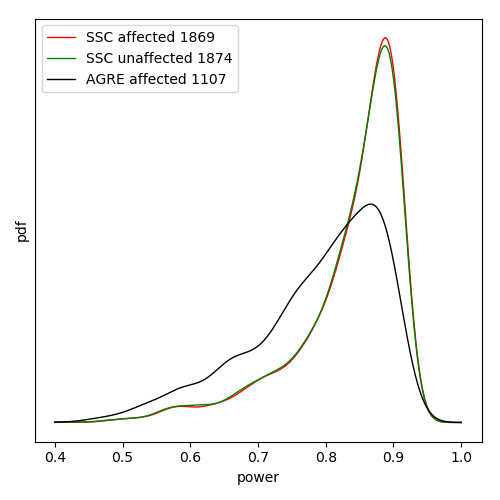
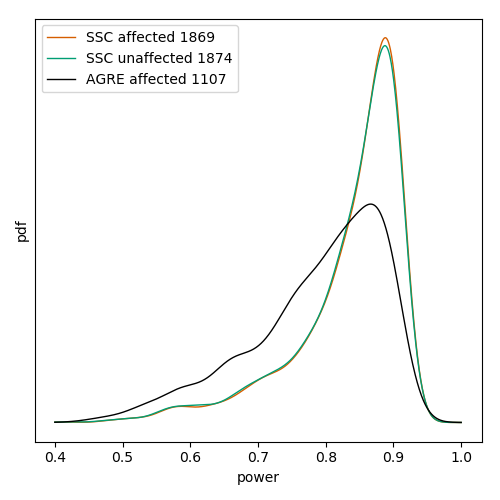
updated the color schema

diff --git a/src/figParentalAges.py b/src/figParentalAges.py
@@ -24,15 +24,21 @@ def pltD(aAll,c,f,t,lw=1,onY=False,):
     density = stats.kde.gaussian_kde(a)
     x = linspace(f,t,1000)
     if onY:
-        plot(density(x), x,c,lw=lw)
+        plot(density(x), x,c=c,lw=lw)
     else:
-        plot(x, density(x),c,lw=lw)
+        plot(x, density(x),c=c,lw=lw)
     return len(a)
 
 
 clf()
 spi = 0
-chldSetDef = [['SSC','affected','r'],['SSC','unaffected','g'], ['AGRE','affected', 'k']]
+
+chldSetDef = [
+    ['SSC' , 'affected'  , [213/255., 94 /255., 0  /255.]],
+    ['SSC' , 'unaffected', [0  /255., 158/255., 115/255.]], 
+    ['AGRE', 'affected'  , [0  /255., 0  /255., 0  /255.]]
+]
+
 for par,GS in zip(['father','mother'],[GRPDA,GRPMA]):
     spi += 1
     subplot(2,2,spi)
@@ -56,9 +62,9 @@ for par,GS in zip(['father','mother'],[GRPDA,GRPMA]):
         ages = agesAll[logical_not(isnan(agesAll))] 
         mn = mean(ages)
         se = 2*stats.sem(ages)
-        plot([ci],[mn],c+'o')
-        plot([ci,ci],[mn-se,mn+se],c+'-')
-        plot([0,2],[mn,mn],c+':')
+        plot([ci],[mn],'o',c=c)
+        plot([ci,ci],[mn-se,mn+se],'-',c=c)
+        plot([0,2],[mn,mn],':',c=c)
         lgnds.append('%s %s' % (coll, affSt))
     xticks([0,1,2],lgnds)
     ylabel('age')

diff --git a/src/figCNVPower.py b/src/figCNVPower.py
@@ -57,8 +57,8 @@ hcs = ls[0].split("\t")
     
 def plotFCI(n,x,c):
     bd = beta(n,10000-n)
-    lid = plot([x,x],[bd.ppf(0.05),bd.isf(0.05)],c,lw=2,alpha=0.5)
-    plot([x],n/10000.,c + '*')
+    lid = plot([x,x],[bd.ppf(0.05),bd.isf(0.05)],c=c,lw=2)
+    plot([x],n/10000.,'*',c=c)
     return lid[0]
 
 clf()
@@ -74,8 +74,8 @@ for x,l in enumerate(ls[1:]):
     sscAutOK = int(sscAutOK)
     sscSibOK = int(sscSibOK)
     aal = plotFCI(agreAutOK,x,'k')
-    sal = plotFCI(sscAutOK,x,'r')
-    ssl = plotFCI(sscSibOK,x,'g')
+    sal = plotFCI(sscAutOK,x,[213/255., 94 /255., 0  /255.])
+    ssl = plotFCI(sscSibOK,x,[0  /255., 158/255., 115/255.])
     xls.append(cnvSize)
 # xticks(arange(len(xls)),xls,fontsize=8,rotation=-90)
 xticks(arange(len(xls)),xls)

diff --git a/src/figSnvPower.py b/src/figSnvPower.py
@@ -14,12 +14,16 @@ def pltD(aAll,c,f,t,lw=1,onY=False,):
     density = stats.kde.gaussian_kde(a)
     x = linspace(f,t,1000)
     if onY:
-        plot(density(x), x,c,lw=lw)
+        plot(density(x), x,c=c,lw=lw)
     else:
-        plot(x, density(x),c,lw=lw)
+        plot(x, density(x),c=c,lw=lw)
     return len(a)
 
-chldSetDef = [['SSC','affected','r'],['SSC','unaffected','g'], ['AGRE','affected', 'k']]
+chldSetDef = [
+    ['SSC' , 'affected'  , [213/255., 94 /255., 0  /255.]],
+    ['SSC' , 'unaffected', [0  /255., 158/255., 115/255.]], 
+    ['AGRE', 'affected'  , [0  /255., 0  /255., 0  /255.]]
+]
 
 figure()
 GRPP = defaultdict(list)
